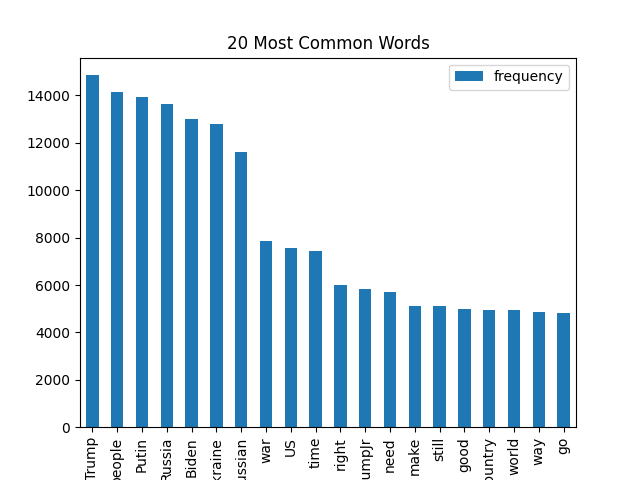
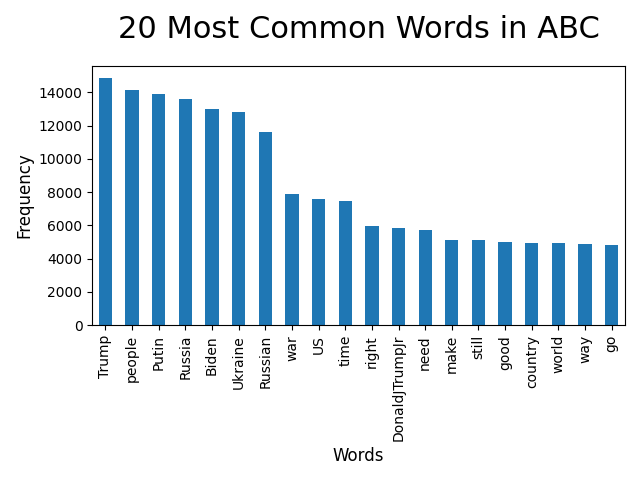
Made visualization clearer

Changed region(s): [[0.0312, 0.125, 0.9688, 1.0], [0.1875, 0.0312, 0.9375, 0.125], [0.6875, 0.125, 0.9062, 0.1875]]

diff --git a/horizontal/horizontal_analysis.py b/horizontal/horizontal_analysis.py
@@ -36,8 +36,12 @@ def most_common_words(all_text, name):
     word_freq = Counter(words)
     word_freq_df = pd.DataFrame(word_freq.items(), columns=['word', 'frequency'])
 
-    plt.figure(figsize=(10, 6))
-    word_freq_df.nlargest(20, 'frequency').plot(kind='bar', x='word', y='frequency', title='20 Most Common Words')
+    plt.figure(figsize=(20, 15))
+    word_freq_df.nlargest(20, 'frequency').plot(kind='bar', x='word', y='frequency', legend=False)
+    plt.xlabel('Words', fontsize=12)
+    plt.ylabel('Frequency', fontsize=12)
+    plt.title(f'20 Most Common Words in {name.upper()}', fontsize=22, pad=20)
+    plt.tight_layout()
     plt.savefig(f'./{name}_20_most_common_words.png')
     plt.close()
     print(f"Finished 20 most common words for {name}")
